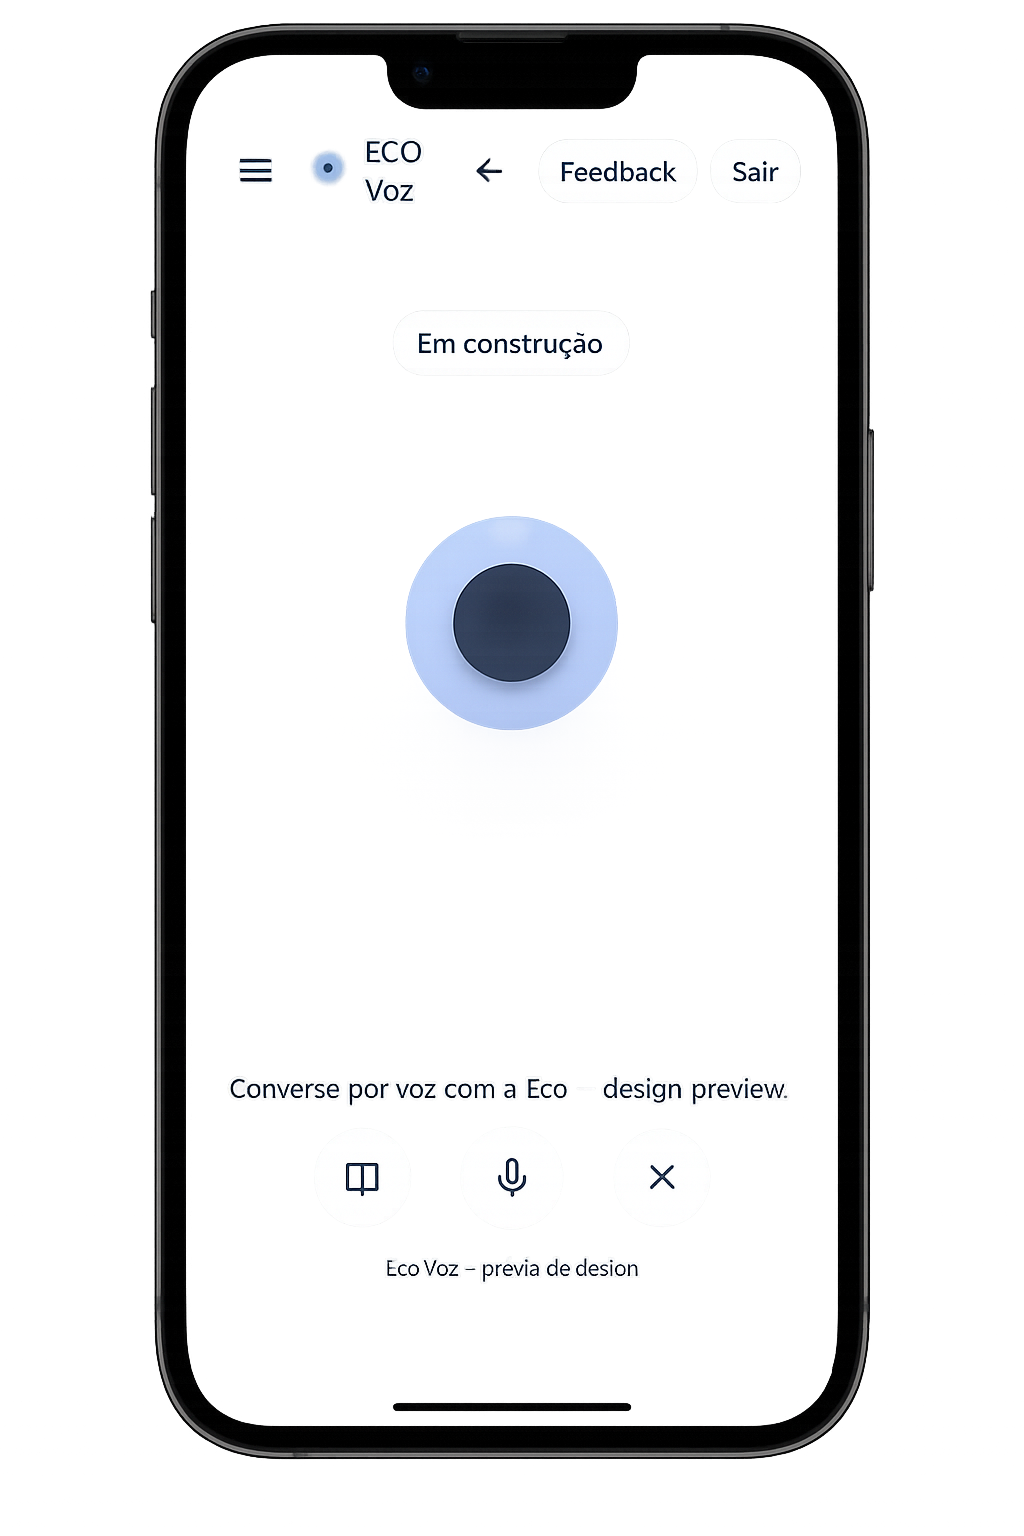
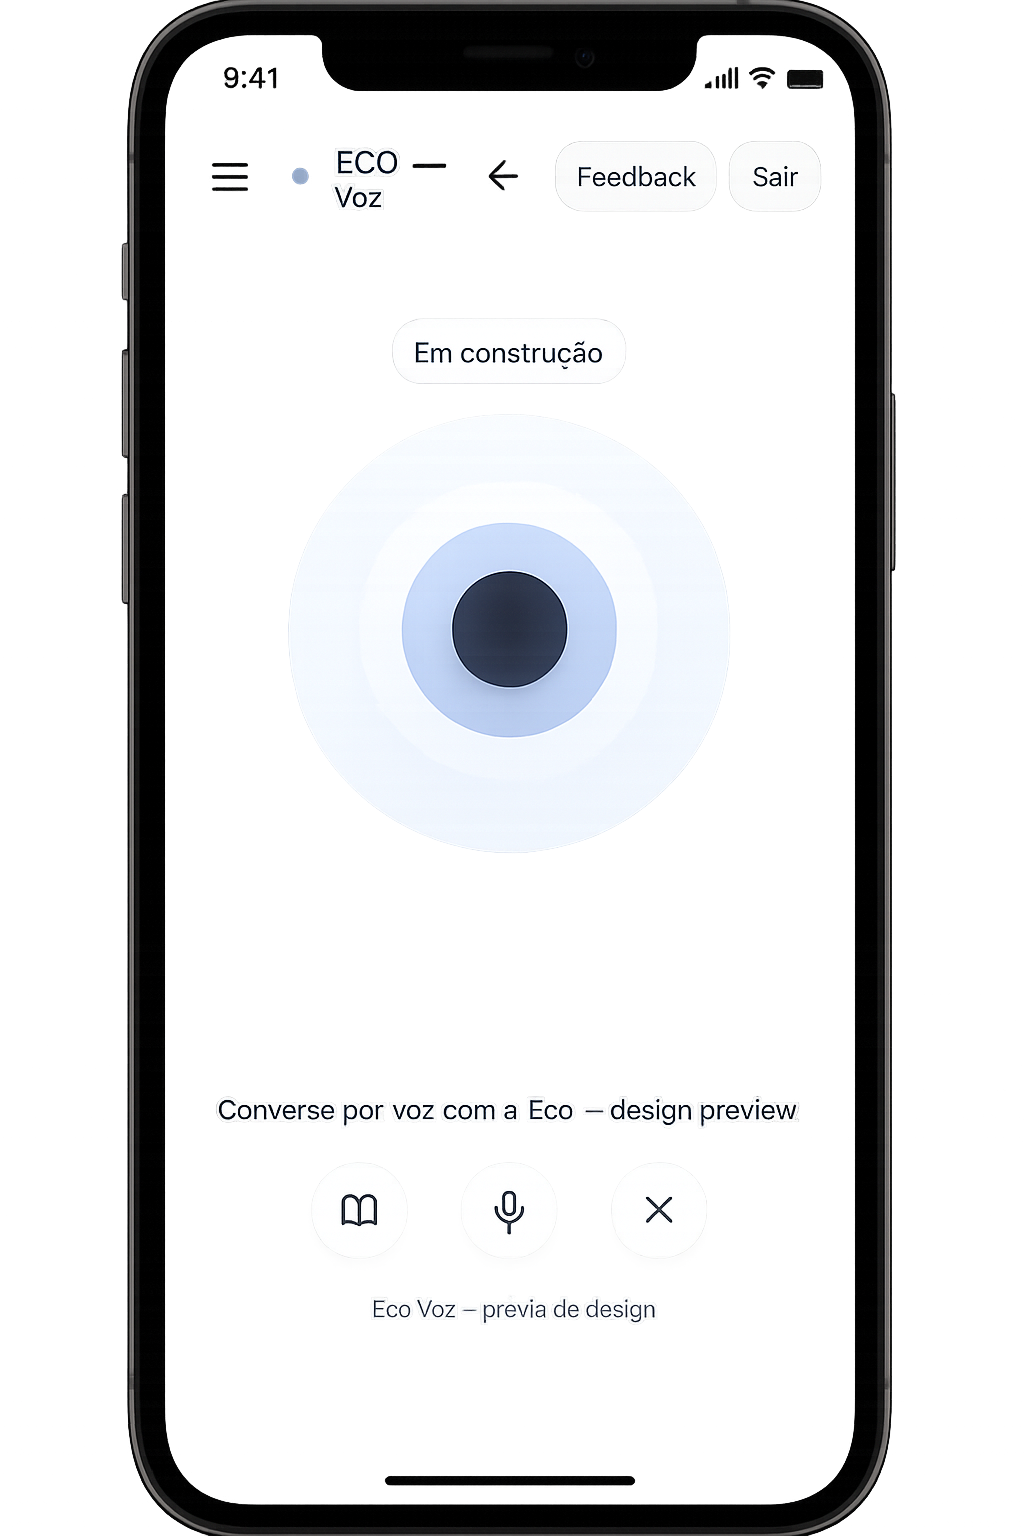
alterações

diff --git a/src/sections/HowItWorksSection.tsx b/src/sections/HowItWorksSection.tsx
@@ -10,10 +10,10 @@ type Step = {
 };
 
 const steps: Step[] = [
-  { id: 1, title: "Compartilhe",          description: "Dê forma ao que sente.",                 icon: Circle },
-  { id: 2, title: "Reflexão guiada",      description: "Um reflexo do seu interior.",            icon: Sparkles },
-  { id: 3, title: "Clareza emocional",    description: "Veja o invisível ganhar contorno.",      icon: Sun },
-  { id: 4, title: "Memórias conscientes", description: "Um lugar para guardar o essencial.",     icon: BookOpen },
+  { id: 1, title: "Envie uma mensagem",     description: "Você escreve livremente. A conversa começa com você.",           icon: Circle },
+  { id: 2, title: "Resposta da Eco",        description: "Reflexões guiadas e perguntas que funcionam como espelho.",     icon: Sparkles },
+  { id: 3, title: "Sinais & padrões",       description: "A Eco destaca o essencial e o que se repete com o tempo.",      icon: Sun },
+  { id: 4, title: "Memórias automáticas",   description: "O que importa fica salvo para consultas futuras — sem esforço.", icon: BookOpen },
 ];
 
 const HowItWorks: React.FC = () => {
@@ -23,64 +23,70 @@ const HowItWorks: React.FC = () => {
   const Demo = ({ step }: { step: number }) => {
     if (step === 1)
       return (
-        <div className="space-y-4">
-          <span className="text-xs font-medium uppercase tracking-[0.18em] text-[#A1A6BB]">
-            Sua expressão
+        <div className="space-y-3">
+          <span className="text-[11px] font-medium uppercase tracking-[0.18em] text-[#A1A6BB]">
+            Sua mensagem
           </span>
-          <div className="rounded-2xl border border-white/40 bg-white/80 p-4 shadow-sm backdrop-blur-xl">
+          <div className="rounded-xl border border-white/40 bg-white/80 p-3 shadow-sm backdrop-blur-xl">
             <p className="text-sm leading-relaxed text-[#111827]">
               Hoje me sinto confuso, tentando ouvir o que está aqui dentro.
             </p>
           </div>
-          <div className="mt-1 flex h-11 items-center rounded-xl border border-white/30 bg-white/60 px-4 text-sm text-[#6B7280] backdrop-blur-xl">
-            Dê forma ao que sente…
+          <div className="mt-1 flex h-10 items-center rounded-lg border border-white/30 bg-white/60 px-3 text-sm text-[#6B7280] backdrop-blur-xl">
+            Escreva para a Eco…
           </div>
         </div>
       );
 
     if (step === 2)
       return (
-        <div className="flex flex-col items-center justify-center space-y-4 py-6">
-          <div className="relative flex h-28 w-28 items-center justify-center overflow-hidden rounded-full border border-white/50 bg-white/80 shadow-inner backdrop-blur-xl">
-            <div className="absolute inset-0 rounded-full bg-[radial-gradient(circle_at_30%_30%,rgba(255,255,255,0.9),rgba(99,102,241,0.16)_50%,rgba(79,70,229,0.22)_85%)]" />
-            <div className="absolute inset-0 rounded-full border border-white/60 opacity-70 animate-pulse" />
+        <div className="space-y-3">
+          <span className="text-[11px] font-medium uppercase tracking-[0.18em] text-[#A1A6BB]">
+            Resposta da Eco
+          </span>
+          <div className="space-y-2">
+            <div className="rounded-xl border border-white/40 bg-white/85 p-3 text-sm text-[#111827] shadow-sm backdrop-blur-xl">
+              Entendi. Vamos explorar: o que provocou essa confusão hoje?
+            </div>
+            <div className="rounded-xl border border-white/40 bg-white/70 p-3 text-sm text-[#111827] shadow-sm backdrop-blur-xl">
+              Se isso tivesse uma cor ou peso, qual seria? Por quê?
+            </div>
           </div>
-          <p className="px-6 text-center text-sm leading-relaxed text-[#6B7280]">
-            Uma resposta nasce do que você revela.
-          </p>
         </div>
       );
 
     if (step === 3)
       return (
-        <div className="space-y-4">
-          <span className="text-xs font-medium uppercase tracking-[0.18em] text-[#A1A6BB]">
-            Seu insight
+        <div className="space-y-3">
+          <span className="text-[11px] font-medium uppercase tracking-[0.18em] text-[#A1A6BB]">
+            Sinais & padrões
           </span>
-          <div className="rounded-2xl border border-[#C7D2FE]/60 bg-gradient-to-br from-[#E0E7FF]/60 via-white to-[#F5F3FF]/70 p-4 shadow-sm backdrop-blur-xl">
-            <p className="text-sm leading-relaxed text-[#111827]">
-              O que se repete começa a ganhar contorno.
-            </p>
+          <div className="rounded-xl border border-[#C7D2FE]/60 bg-gradient-to-br from-[#E0E7FF]/60 via-white to-[#F5F3FF]/70 p-3 shadow-sm backdrop-blur-xl">
+            <ul className="space-y-1 text-sm text-[#111827]">
+              <li>• Tema recorrente: <b>autocrítica</b> nas tardes de segunda.</li>
+              <li>• Gatilho comum: reuniões longas.</li>
+              <li>• Sugestão: mini-pausa respiratória antes da última reunião.</li>
+            </ul>
           </div>
         </div>
       );
 
     return (
-      <div className="space-y-4">
-        <span className="text-xs font-medium uppercase tracking-[0.18em] text-[#A1A6BB]">
-          Memória (exemplo)
+      <div className="space-y-3">
+        <span className="text-[11px] font-medium uppercase tracking-[0.18em] text-[#A1A6BB]">
+          Memórias automáticas
         </span>
-        <div className="max-h-[240px] space-y-4 overflow-y-auto rounded-2xl border border-white/40 bg-white/80 p-4 shadow-sm backdrop-blur-xl">
-          <div className="border-b border-white/40 pb-3">
-            <div className="text-xs text-[#A1A6BB]">14 de julho</div>
+        <div className="max-h-[200px] space-y-3 overflow-y-auto rounded-xl border border-white/40 bg-white/80 p-3 shadow-sm backdrop-blur-xl">
+          <div className="border-b border-white/40 pb-2">
+            <div className="text-[11px] text-[#A1A6BB]">14 de julho</div>
             <p className="text-sm leading-relaxed text-[#111827]">
-              Hoje me senti mais presente e calmo.
+              Confusão → clareza após pausa de respiração (3 min).
             </p>
           </div>
-          <div className="border-b border-white/40 pb-3">
-            <div className="text-xs text-[#A1A6BB]">12 de julho</div>
+          <div className="border-b border-white/40 pb-2">
+            <div className="text-[11px] text-[#A1A6BB]">12 de julho</div>
             <p className="text-sm leading-relaxed text-[#111827]">
-              Notei que estou reconhecendo melhor o que sinto.
+              Padrão percebido: tensão pré-reunião. Funcionou: anotar 1 intenção.
             </p>
           </div>
         </div>
@@ -92,26 +98,23 @@ const HowItWorks: React.FC = () => {
     <section
       id="como-funciona"
       ref={ref}
-      className="relative w-full scroll-mt-24 bg-white py-20 md:py-28"
+      className="relative w-full scroll-mt-24 bg-white py-14 md:py-20"
     >
-      <div className="pointer-events-none absolute left-[12%] top-12 hidden h-64 w-64 -translate-x-1/2 rounded-full bg-gradient-to-br from-purple-200 via-transparent to-indigo-200 opacity-40 blur-3xl lg:block" aria-hidden />
-
-      {/* Cabeçalho estilo “continuação” */}
       <div
-        className={`mx-auto mb-12 flex w-full max-w-7xl flex-col px-4 sm:px-6 lg:px-8 transition-all duration-700 ease-out ${
+        className={`mx-auto mb-8 flex w-full max-w-7xl flex-col px-4 sm:px-6 lg:px-8 transition-all duration-700 ease-out ${
           isVisible ? "opacity-100 translate-y-0" : "opacity-0 translate-y-6"
         }`}
       >
         <h2 className="heading-lg text-left font-semibold text-[#111827]">
-          Como a Eco acompanha sua clareza emocional.
+          Como a conversa funciona.
         </h2>
-        <p className="subheading mt-3 max-w-2xl text-left text-[#6B7280]">
-          Passo a passo, da escrita à leitura delicada dos seus padrões.
+        <p className="subheading mt-2 max-w-2xl text-left text-[#6B7280]">
+          Você escreve, a Eco responde com perguntas e reflexões, destaca sinais importantes e salva o essencial.
         </p>
       </div>
 
-      {/* MOBILE: cards empilhados + demo inline no card ativo */}
-      <div className="w-full max-w-3xl space-y-4 px-4 sm:px-6 lg:hidden">
+      {/* MOBILE */}
+      <div className="w-full max-w-3xl space-y-3 px-4 sm:px-6 lg:hidden">
         {steps.map((step) => {
           const Icon = step.icon;
           const active = activeStep === step.id;
@@ -120,52 +123,44 @@ const HowItWorks: React.FC = () => {
               key={step.id}
               className={`glass glass-hover w-full transition-all duration-300 ease-out ${
                 active
-                  ? "border-white/50 bg-white/70 ring-2 ring-[#A78BFA]/40 shadow-md"
+                  ? "border-white/50 bg-white/70 ring-1 ring-[#A78BFA]/30 shadow-md"
                   : "border-white/30 bg-white/50"
               }`}
             >
               <button
                 onClick={() => setActiveStep(active ? 0 : step.id)}
-                className="flex w-full items-center gap-4 rounded-[inherit] px-5 py-5 text-left focus-visible:outline-none focus-visible:ring-2 focus-visible:ring-[#A78BFA] focus-visible:ring-offset-2 focus-visible:ring-offset-white"
+                className="flex w-full items-center gap-3 rounded-[inherit] px-4 py-4 text-left focus-visible:outline-none focus-visible:ring-2 focus-visible:ring-[#A78BFA] focus-visible:ring-offset-2 focus-visible:ring-offset-white"
                 aria-expanded={active}
                 aria-pressed={active}
                 aria-controls={`demo-${step.id}`}
               >
                 <span
-                  className={`flex h-12 w-12 items-center justify-center rounded-full border border-white/60 bg-gradient-to-br from-white via-white/60 to-[#E0E7FF]/70 shadow-inner transition-opacity duration-300 ease-out ${
+                  className={`flex h-10 w-10 items-center justify-center rounded-full border border-white/60 bg-gradient-to-br from-white via-white/60 to-[#E0E7FF]/70 shadow-inner transition-opacity ${
                     active ? "opacity-100" : "opacity-90"
                   }`}
                   aria-hidden
                 >
-                  <Icon size={18} strokeWidth={1.6} className="text-[#4F46E5]" />
+                  <Icon size={16} strokeWidth={1.6} className="text-[#4F46E5]" />
                 </span>
 
-                <span className="flex flex-1 flex-col gap-2">
+                <span className="flex flex-1 flex-col">
                   <span className="flex items-baseline gap-2">
-                    <span className="text-sm font-semibold leading-snug text-[#111827] sm:text-[16px]">
+                    <span className="text-[15px] font-semibold leading-snug text-[#111827]">
                       {step.title}
                     </span>
-                    <span className="ml-auto text-[12px] font-medium text-[#A1A6BB] tabular-nums">
+                    <span className="ml-auto text-[11px] font-medium text-[#A1A6BB] tabular-nums">
                       0{step.id}
                     </span>
                   </span>
-                  <span className="text-[13px] leading-snug text-[#6B7280] sm:text-[14px]">
+                  <span className="text-[13px] leading-snug text-[#6B7280]">
                     {step.description}
                   </span>
-                  {step.id === 4 && (
-                    <a
-                      href="#relatorio"
-                      className="mt-1 inline-flex items-center text-[13px] font-semibold text-[#4F46E5] transition-colors duration-200 ease-out hover:text-[#111827] focus-visible:outline-none focus-visible:ring-2 focus-visible:ring-[#A78BFA] focus-visible:ring-offset-2 focus-visible:ring-offset-white"
-                    >
-                      Ver relatório emocional →
-                    </a>
-                  )}
                 </span>
               </button>
 
               {active && (
-                <div id={`demo-${step.id}`} className="px-5 pb-5">
-                  <div className="rounded-2xl border border-white/40 bg-white/75 p-4 shadow-sm backdrop-blur-xl">
+                <div id={`demo-${step.id}`} className="px-4 pb-4">
+                  <div className="rounded-xl border border-white/40 bg-white/75 p-3 shadow-sm backdrop-blur-xl">
                     <Demo step={step.id} />
                   </div>
                 </div>
@@ -175,9 +170,9 @@ const HowItWorks: React.FC = () => {
         })}
       </div>
 
-      {/* DESKTOP: lista à esquerda + demo fixa à direita */}
-      <div className="mx-auto hidden w-full max-w-7xl grid-cols-2 gap-12 px-4 sm:px-6 lg:px-8 lg:grid">
-        <div className="space-y-4">
+      {/* DESKTOP */}
+      <div className="mx-auto hidden w-full max-w-7xl grid-cols-2 gap-8 px-4 sm:px-6 lg:px-8 lg:grid">
+        <div className="space-y-3">
           {steps.map((step) => {
             const Icon = step.icon;
             const active = activeStep === step.id;
@@ -185,48 +180,40 @@ const HowItWorks: React.FC = () => {
               <button
                 key={step.id}
                 onClick={() => setActiveStep(step.id)}
-                className={`glass glass-hover flex w-full items-center gap-4 rounded-2xl px-6 py-5 text-left transition-all duration-300 ease-out ${
+                className={`glass glass-hover flex w-full items-center gap-3 rounded-2xl px-5 py-4 text-left transition-all duration-300 ease-out ${
                   active
-                    ? "border-white/60 bg-white/70 ring-2 ring-[#A78BFA]/40 shadow-md"
+                    ? "border-white/60 bg-white/70 ring-1 ring-[#A78BFA]/30 shadow-md"
                     : "border-white/30 bg-white/40"
                 }`}
                 aria-pressed={active}
                 aria-controls={`demo-desktop-${step.id}`}
               >
                 <span
-                  className="flex h-12 w-12 items-center justify-center rounded-full border border-white/60 bg-gradient-to-br from-white via-white/60 to-[#E0E7FF]/70 shadow-inner"
+                  className="flex h-10 w-10 items-center justify-center rounded-full border border-white/60 bg-gradient-to-br from-white via-white/60 to-[#E0E7FF]/70 shadow-inner"
                   aria-hidden
                 >
-                  <Icon size={18} strokeWidth={1.6} className="text-[#4F46E5]" />
+                  <Icon size={16} strokeWidth={1.6} className="text-[#4F46E5]" />
                 </span>
-                <span className="flex flex-1 flex-col gap-2">
+                <span className="flex flex-1 flex-col">
                   <span className="flex items-baseline gap-2">
-                    <span className="text-[17px] font-semibold leading-snug text-[#111827]">
+                    <span className="text-[16px] font-semibold leading-snug text-[#111827]">
                       {step.title}
                     </span>
-                    <span className="ml-auto text-xs font-medium text-[#A1A6BB] tabular-nums">
+                    <span className="ml-auto text-[12px] font-medium text-[#A1A6BB] tabular-nums">
                       0{step.id}
                     </span>
                   </span>
-                  <span className="text-[15px] leading-snug text-[#6B7280]">
+                  <span className="text-[14px] leading-snug text-[#6B7280]">
                     {step.description}
                   </span>
-                  {step.id === 4 && (
-                    <a
-                      href="#relatorio"
-                      className="mt-1 inline-flex items-center text-[13px] font-semibold text-[#4F46E5] transition-colors duration-200 ease-out hover:text-[#111827] focus-visible:outline-none focus-visible:ring-2 focus-visible:ring-[#A78BFA] focus-visible:ring-offset-2 focus-visible:ring-offset-white"
-                    >
-                      Ver relatório emocional →
-                    </a>
-                  )}
                 </span>
               </button>
             );
           })}
         </div>
 
-        <div className="glass relative min-h-[420px] overflow-hidden rounded-3xl border-white/40 bg-white/60 p-8 shadow-lg">
-          <div className="pointer-events-none absolute inset-0 bg-[radial-gradient(120%_80%_at_70%_0%,rgba(99,102,241,0.12),transparent)]" />
+        <div className="glass relative min-h-[340px] overflow-hidden rounded-3xl border-white/40 bg-white/60 p-6 shadow-lg">
+          <div className="pointer-events-none absolute inset-0 bg-[radial-gradient(120%_80%_at_70%_0%,rgba(99,102,241,0.10),transparent)]" />
           <div className="relative h-full" id="demo-desktop">
             <Demo step={activeStep || 1} />
           </div>
